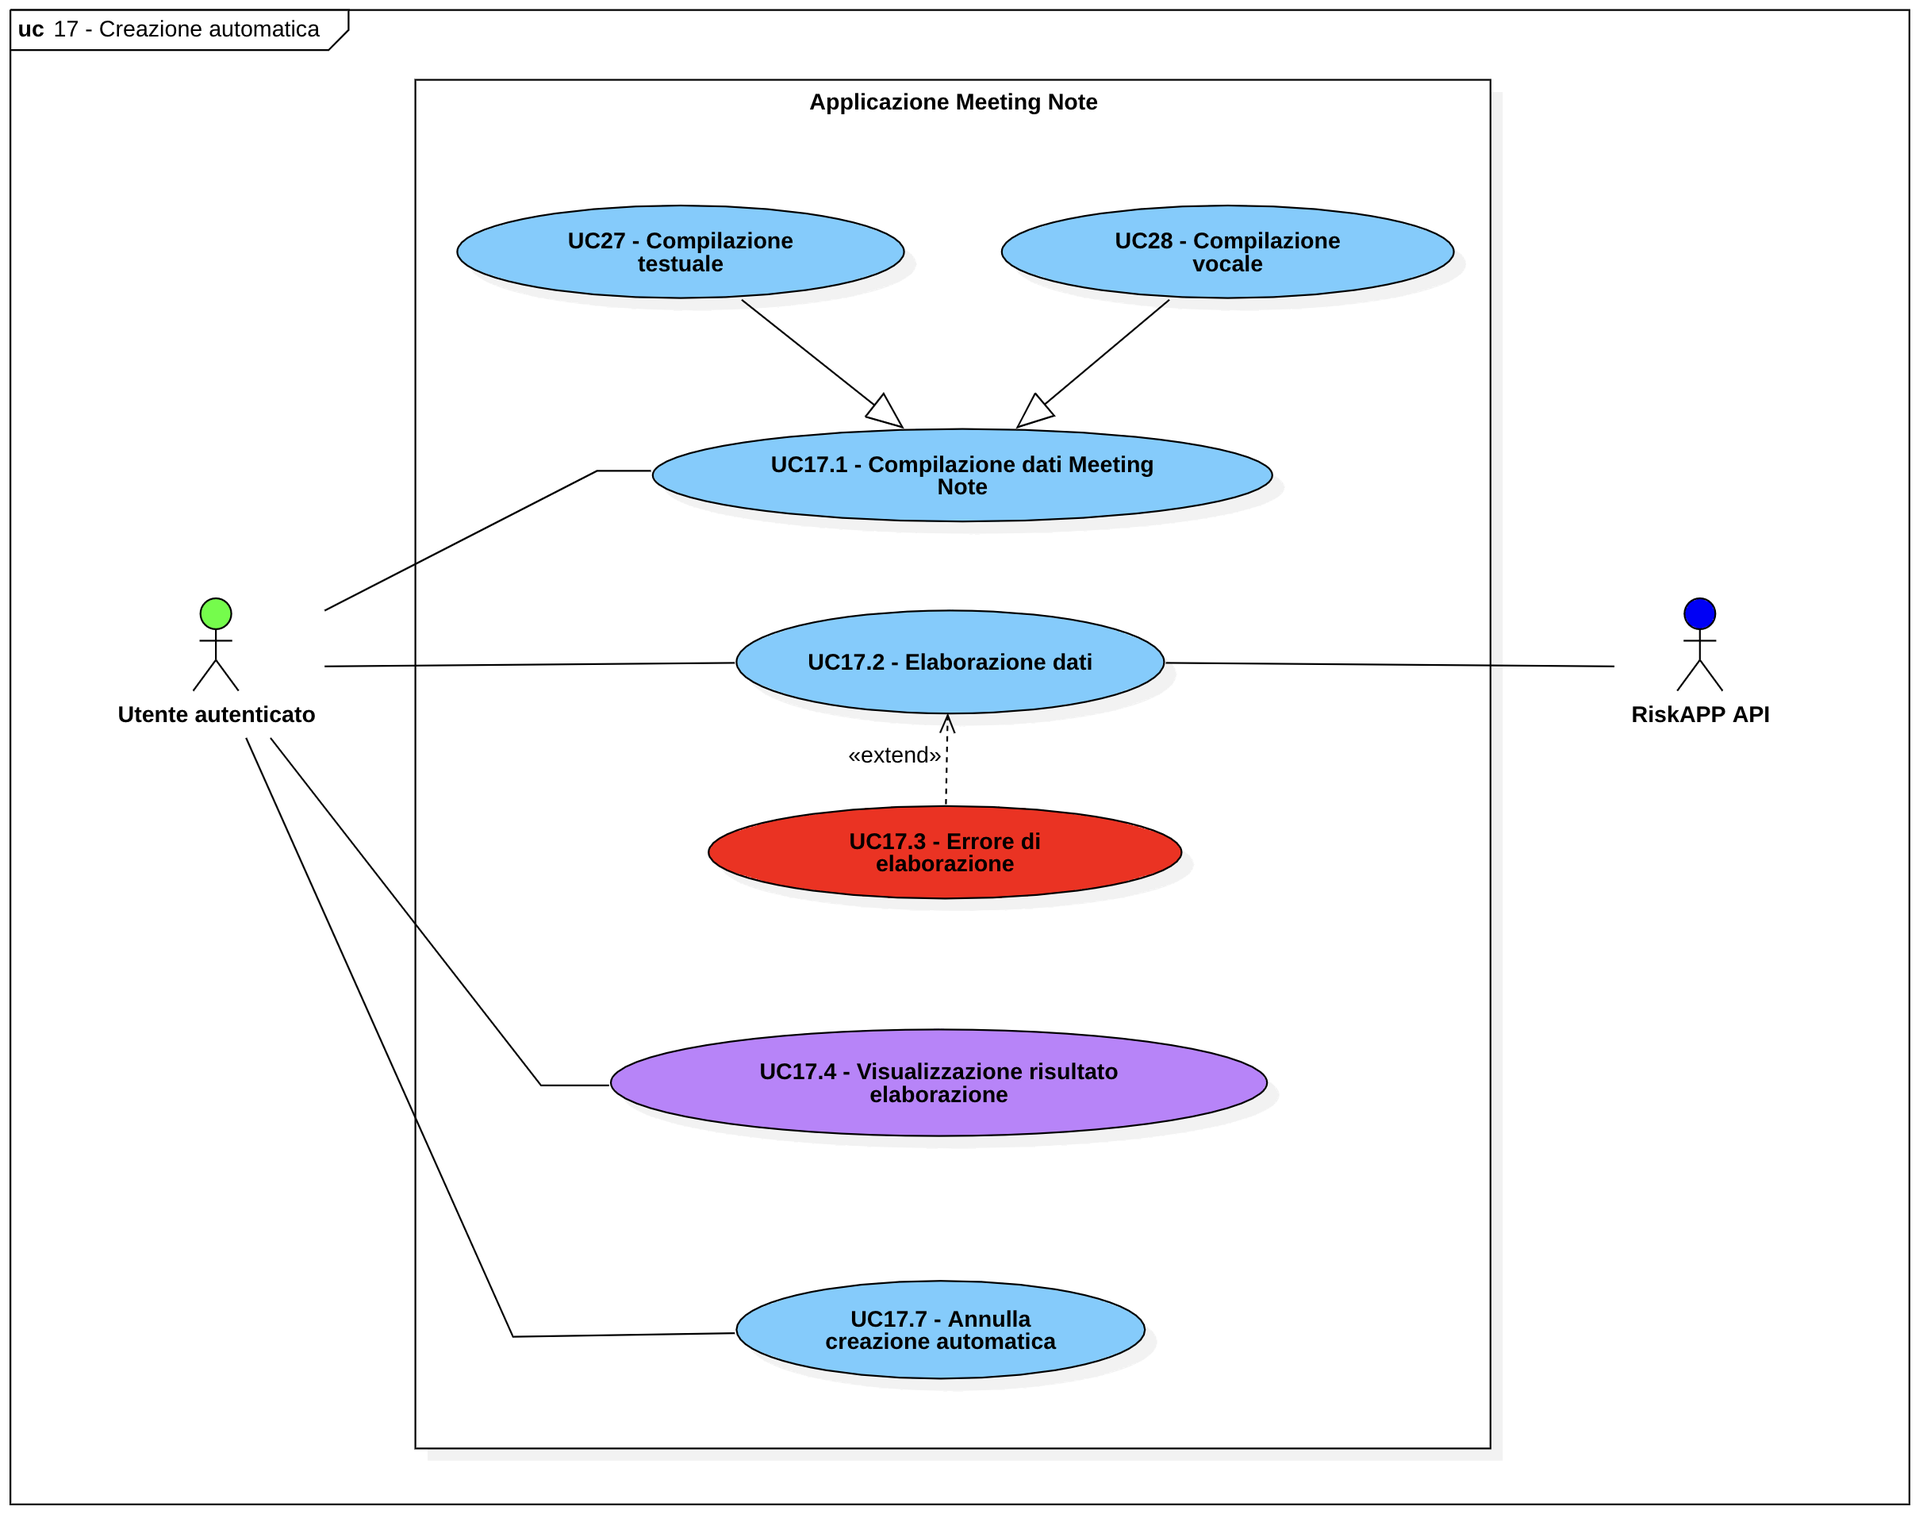
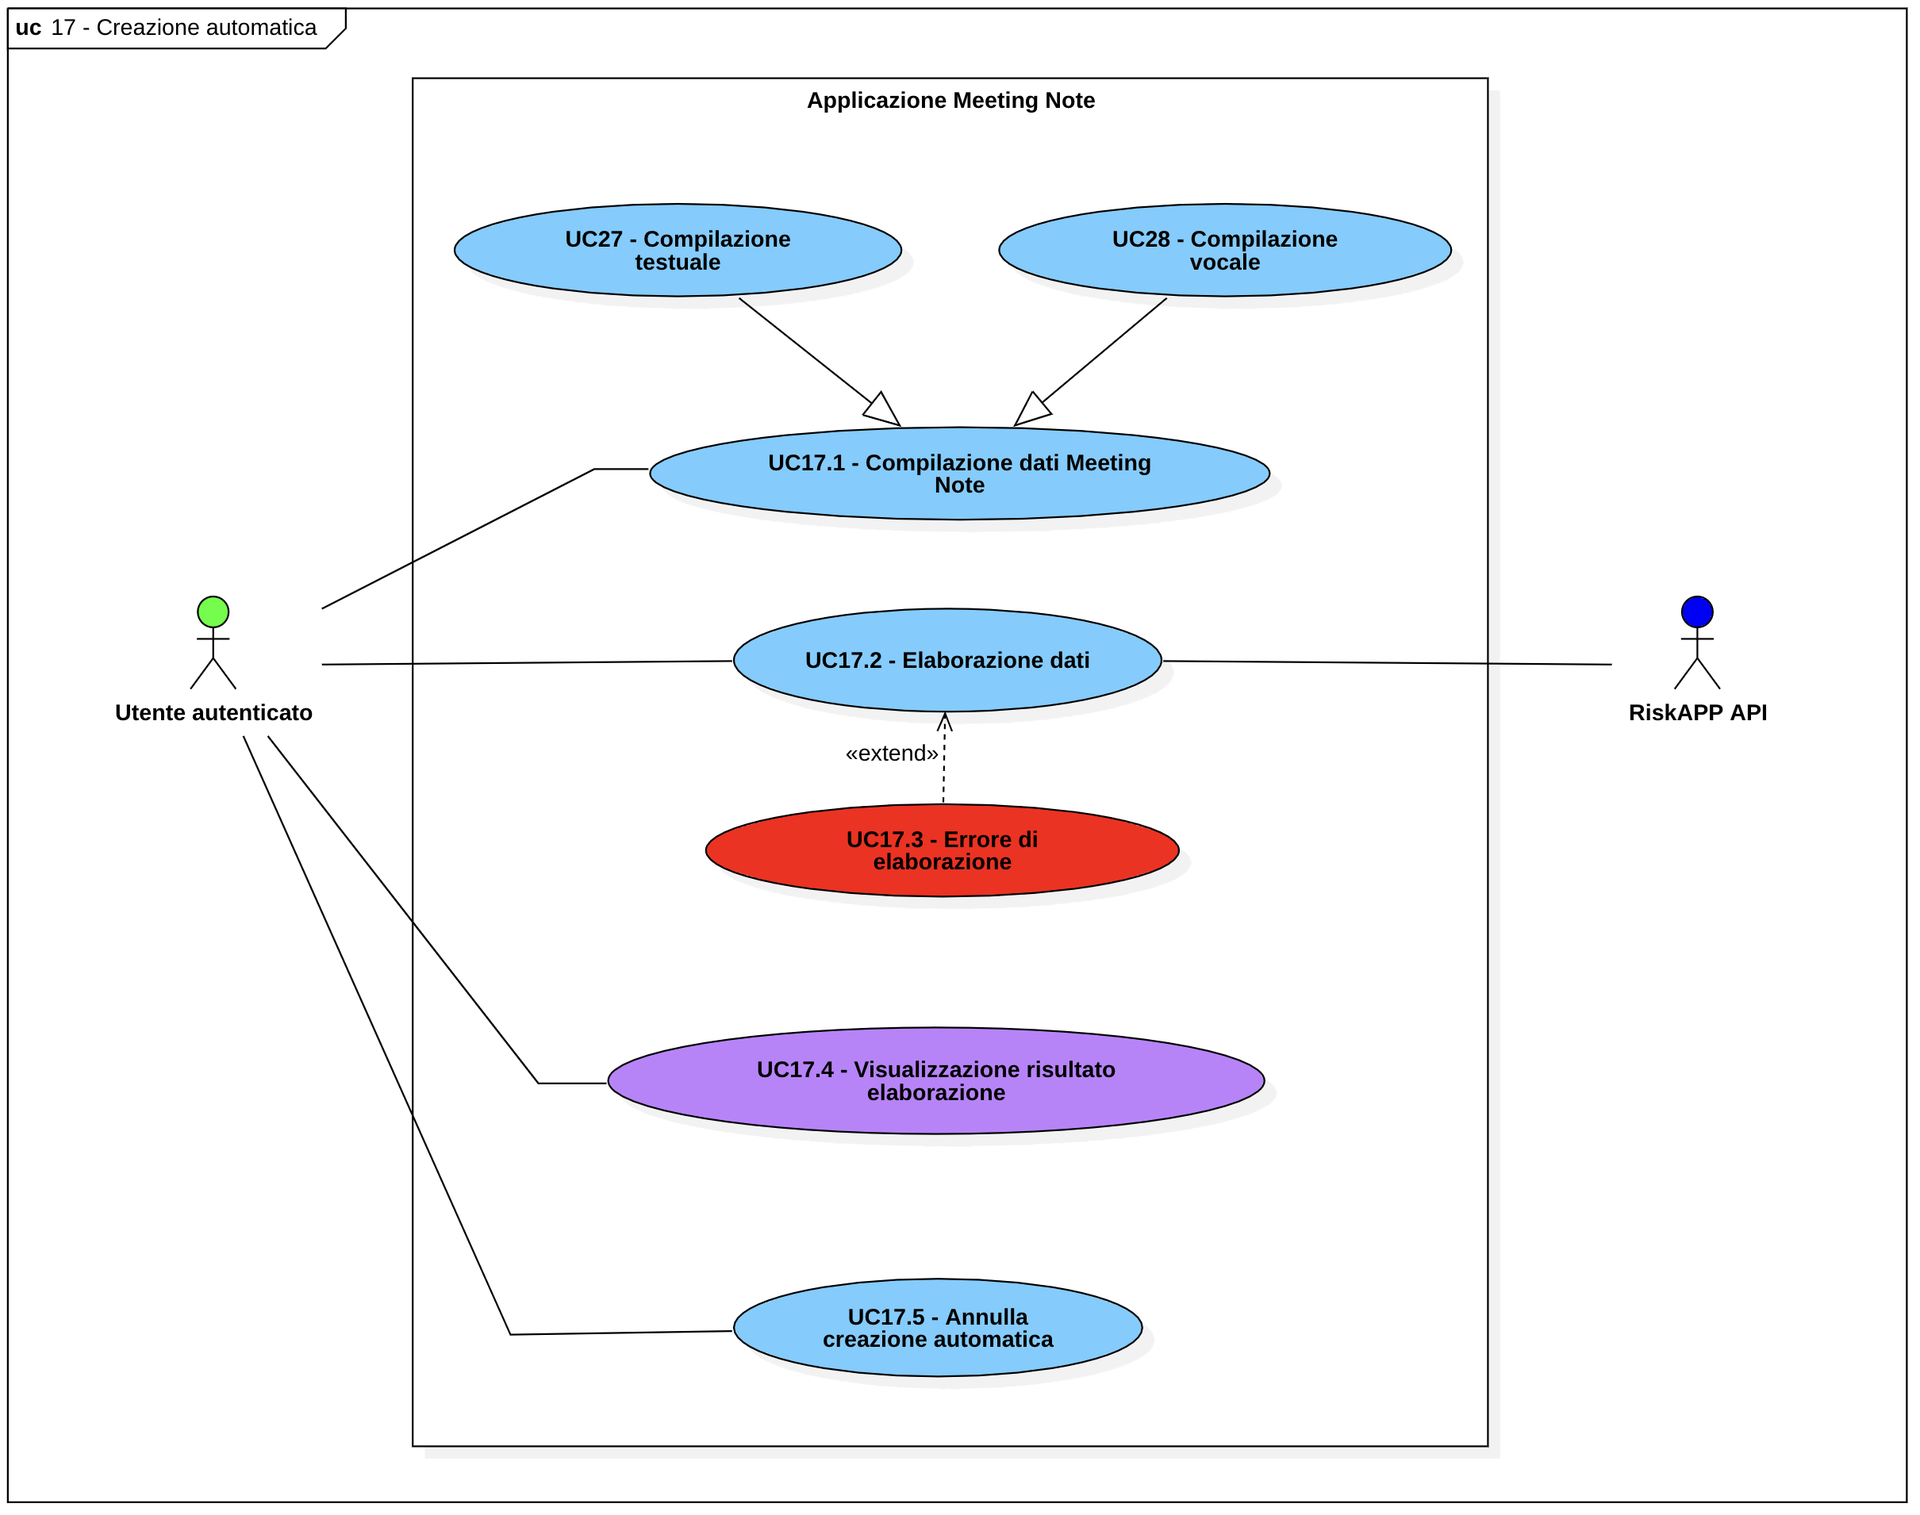
redazione use case

diff --git a/chapters/concept.tex b/chapters/concept.tex
@@ -104,8 +104,8 @@ In questa sezione vengono definiti gli attori che interagiscono con il sistema.
 \begin{usecase}{05.1}{Visualizzazione cliente delle Meeting Note}
     \usecasemainactors{Utente autenticato}
     \usecasepre{L'utente visualizza la lista delle \gls{meetingnote}\glsoccur}
-    \usecasedesc{Vengono visualizzati gli identificativi dei clienti associati alle \gls{meetingnote}\glsoccur.}
-    \usecasepost{L'utente visualizza i clienti associati alle \gls{meetingnote}\glsoccur}
+    \usecasedesc{Vengono visualizzati gli identificativi dei \glspl{cliente}\glsoccur associati alle \gls{meetingnote}\glsoccur.}
+    \usecasepost{L'utente visualizza i \glspl{cliente}\glsoccur associati alle \gls{meetingnote}\glsoccur}
 \end{usecase}
 
 \begin{usecase}{05.2}{Visualizzazione data della Meeting Note}
@@ -156,9 +156,9 @@ In questa sezione vengono definiti gli attori che interagiscono con il sistema.
 \begin{usecase}{07.1}{Ricerca per identificativo del cliente}
     \usecasemainactors{Utente autenticato}
     \usecasesecondaryactors{\emph{RiskAPP API}}
-    \usecasepre{L'utente ha selezionato la categoria del cliente}
-    \usecasedesc{L'utente effettua una ricerca per identificativo del cliente all'interno della lista delle \gls{meetingnote}\glsoccur.}
-    \usecasepost{L'utente visualizza la lista delle \gls{meetingnote}\glsoccur filtrata per identificativo del cliente}
+    \usecasepre{L'utente ha selezionato la categoria del \gls{cliente}\glsoccur}
+    \usecasedesc{L'utente effettua una ricerca per identificativo del \gls{cliente}\glsoccur all'interno della lista delle \gls{meetingnote}\glsoccur.}
+    \usecasepost{L'utente visualizza la lista delle \gls{meetingnote}\glsoccur filtrata per identificativo del \gls{cliente}\glsoccur}
     \usecasealt{Se la ricerca fallisce, si verifica \hyperref[UC07.6]{UC07.6}}
     \label{UC07.1}
 \end{usecase}
@@ -166,8 +166,8 @@ In questa sezione vengono definiti gli attori che interagiscono con il sistema.
 \begin{usecase}{07.2}{Selezione della categoria del cliente}
     \usecasemainactors{Utente autenticato}
     \usecasepre{L'utente visualizza la lista delle \gls{meetingnote}\glsoccur a lui associate}
-    \usecasedesc{L'utente seleziona la categoria del cliente per effettuare la ricerca per identificativo all'interno della lista delle \gls{meetingnote}\glsoccur.}
-    \usecasepost{L'utente ha selezionato la categoria del cliente}
+    \usecasedesc{L'utente seleziona la categoria del \gls{cliente}\glsoccur per effettuare la ricerca per identificativo all'interno della lista delle \gls{meetingnote}\glsoccur.}
+    \usecasepost{L'utente ha selezionato la categoria del \gls{cliente}\glsoccur}
     \label{UC07.2}
 \end{usecase}
 
@@ -345,7 +345,7 @@ In questa sezione vengono definiti gli attori che interagiscono con il sistema.
     \usecasedesc{L'utente vuole ordinare la lista delle \gls{meetingnote}\glsoccur dalla più recente.}
     \usecasepost{L'utente visualizza la lista delle \gls{meetingnote}\glsoccur ordinata dalla più recente}
     \usecasealt{Se l'ordinamento fallisce, si verifica \hyperref[UC13]{UC13}}
-    \label{UC11}
+    \label{UC12}
 \end{usecase}
 
 \begin{usecase}{13}{Errore nell'ordinamento}
@@ -381,8 +381,8 @@ In questa sezione vengono definiti gli attori che interagiscono con il sistema.
 \begin{usecase}{14.1}{Visualizzazione cliente Meeting Note}
     \usecasemainactors{Utente autenticato}
     \usecasepre{L'utente visualizza i dettagli di una singola \gls{meetingnote}\glsoccur}
-    \usecasedesc{L'utente vuole visualizzare il cliente di una \gls{meetingnote}\glsoccur.}
-    \usecasepost{L'utente visualizza il cliente di una \gls{meetingnote}\glsoccur}
+    \usecasedesc{L'utente vuole visualizzare il \gls{cliente}\glsoccur di una \gls{meetingnote}\glsoccur.}
+    \usecasepost{L'utente visualizza il \gls{cliente}\glsoccur di una \gls{meetingnote}\glsoccur}
     \label{UC14.1}
 \end{usecase}
 
@@ -439,6 +439,7 @@ In questa sezione vengono definiti gli attori che interagiscono con il sistema.
     \usecasepre{L'utente visualizza i dettagli di una singola \gls{meetingnote}\glsoccur}
     \usecasedesc{L'utente vuole modificare la \gls{meetingnote}\glsoccur selezionata.}
     \usecasepost{L'utente ha modificato la \gls{meetingnote}\glsoccur selezionata}
+    \label{UC14.7}
 \end{usecase}
 
 \newpage
@@ -471,6 +472,241 @@ In questa sezione vengono definiti gli attori che interagiscono con il sistema.
     \usecasedesc{L'utente vuole creare automaticamente una nuova \gls{meetingnote}\glsoccur.}
     \usecasepost{L'utente ha creato automaticamente una nuova \gls{meetingnote}\glsoccur}
     \label{UC17}
+\end{usecase}
+
+\newpage
+
+\begin{figure}[!h] 
+    \centering 
+    \includegraphics[width=1.0\columnwidth]{usecase/9-uc} 
+    \caption{Use Case - Creazione automatica}
+\end{figure}
+
+\begin{usecase}{17.1}{Compilazione dati Meeting Note}
+    \usecasemainactors{Utente autenticato}
+    \usecasepre{L'utente vuole creare automaticamente una \gls{meetingnote}\glsoccur}
+    \usecasedesc{L'utente compila i dati necessari per la creazione automatica di una \gls{meetingnote}\glsoccur.}
+    \usecasepost{L'utente ha compilato i dati necessari per la creazione automatica di una \gls{meetingnote}\glsoccur}
+\end{usecase}
+
+\begin{usecase}{17.2}{Elaborazione dati}
+    \usecasemainactors{Utente autenticato}
+    \usecasesecondaryactors{\emph{RiskAPP API}}
+    \usecasepre{L'utente ha compilato i dati necessari per la creazione automatica di una \gls{meetingnote}\glsoccur}
+    \usecasedesc{I dati vengono elaborati da una algoritmo di Intelligenza Artificiale [TERMINA DA AGGIUNGERE AL GLOSSARIO] per estrapolare i dati (cliente, data e contenuto) per la creazione di una \gls{meetingnote}\glsoccur.}
+    \usecasepost{I dati (cliente, data e contenuto) per la creazione di una \gls{meetingnote}\glsoccur sono stati estrapolati}
+    \usecasealt{Se l'elaborazione fallisce, si verifica \hyperref[UC17.3]{UC17.3}}
+    \label{UC17.2}
+\end{usecase}
+
+\begin{usecase}{17.3}{Errore elaborazione dati}
+    \usecasemainactors{Utente autenticato}
+    \usecasesecondaryactors{\emph{RiskAPP API}}
+    \usecasepre{L'utente ha compilato i dati necessari per la creazione automatica di una \gls{meetingnote}\glsoccur}
+    \usecasedesc{L'elaborazione dei dati per la creazione di una \gls{meetingnote}\glsoccur fallisce e l'utente viene informato dell'errore; le motivazioni possono essere le seguenti:
+        \begin{itemize}
+            \item i dati inseriti non sono sufficienti per l'elaborazione;
+            \item l'algoritmo non è stato in grado di estrapolare i dati;
+            \item il sistema non è raggiungibile;
+            \item token di autenticazione scaduto;
+            \item connessione ad internet assente.
+        \end{itemize}}
+    \usecasepost{I dati per la creazione di una \gls{meetingnote}\glsoccur non sono stati estrapolati}
+    \label{UC17.3}
+\end{usecase}
+
+\begin{usecase}{17.4}{Visualizzazione risultato elaborazione}
+    \usecasemainactors{Utente autenticato}
+    \usecasepre{L'algoritmo ha estrapolato i dati per la creazione di una \gls{meetingnote}\glsoccur}
+    \usecasedesc{Vengogno visualizzati i dati estrapolati dall'algoritmo per la creazione di una \gls{meetingnote}\glsoccur.}
+    \usecasepost{L'utente visualizza i dati estrapolati dall'algoritmo per la creazione di una \gls{meetingnote}\glsoccur per accertarsi della loro correttezza}
+    \label{UC17.4}
+\end{usecase}
+
+\begin{usecase}{17.5}{Annulla creazione automatica}
+    \usecasemainactors{Utente autenticato}
+    \usecasepre{L'utente vuole creare automaticamente una \gls{meetingnote}\glsoccur}
+    \usecasedesc{L'utente annulla la creazione automatica di una \gls{meetingnote}\glsoccur.}
+    \usecasepost{L'utente ha annullato la creazione automatica di una \gls{meetingnote}\glsoccur}
+    \label{UC17.5}
+\end{usecase}
+
+\newpage
+
+\begin{figure}[!h] 
+    \centering 
+    \includegraphics[width=1.0\columnwidth]{usecase/10-uc} 
+    \caption{Use Case - Visualizzazione risultato elaborazione}
+\end{figure}
+
+\newpage
+
+\begin{figure}[!h] 
+    \centering 
+    \includegraphics[width=1.0\columnwidth]{usecase/8-uc} 
+    \caption{Use Case - Creazione manuale (\hyperref[UC16]{UC16}) e Modifica (\hyperref[UC14.7]{UC14.7}) di una Meeting Note}
+\end{figure}
+
+SCRIVERE LA SPIEGAZIONE DELLO SVILUPPO DEGLI USE CASE \hyperref[UC16]{UC16} e \hyperref[UC14.7]{UC14.7}
+
+\begin{usecase}{18}{Selezione del cliente}
+    \usecasemainactors{Utente autenticato}
+    \usecasepre{L'utente vuole creare manualmente o modificare una \gls{meetingnote}\glsoccur}
+    \usecasedesc{L'utente deve selezionare un \gls{cliente}\glsoccur per la creazione o la modifica di una \gls{meetingnote}\glsoccur.}
+    \usecasepost{L'utente ha selezionato un \gls{cliente}\glsoccur}
+\end{usecase}
+
+\begin{usecase}{19}{Visualizzazione lista clienti}
+    \usecasemainactors{Utente autenticato}
+    \usecasesecondaryactors{\emph{RiskAPP API}}
+    \usecasepre{L'utente ha selezionato la categoria del \gls{cliente}\glsoccur}
+    \usecasedesc{Viene visualizzata la lista di tutti i \glspl{cliente}\glsoccur della categoria selezionata.}
+    \usecasepost{L'utente visualizza la lista dei \glspl{cliente}\glsoccur filtrata per categoria}
+    \usecasealt{Se la visualizzazione fallisce, si verifica \hyperref[UC20]{UC20}}
+    \label{UC19}
+\end{usecase}
+
+\begin{usecase}{20}{Errore visualizzazione lista clienti}
+    \usecasemainactors{Utente autenticato}
+    \usecasesecondaryactors{\emph{RiskAPP API}}
+    \usecasepre{L'utente ha selezionato la categoria del \gls{cliente}\glsoccur}
+    \usecasedesc{La visualizzazione della lista dei \glspl{cliente}\glsoccur fallisce e l'utente viene informato dell'errore; le motivazioni possono essere le seguenti:
+        \begin{itemize}
+            \item la lista è vuota;
+            \item il sistema non è raggiungibile;
+            \item token di autenticazione scaduto;
+            \item connessione ad internet assente.
+        \end{itemize}}
+    \usecasepost{L'utente non visualizza la lista dei \glspl{cliente}\glsoccur filtrata per categoria}
+    \label{UC20}
+\end{usecase}
+
+\begin{usecase}{21}{Ricerca cliente per identificativo}
+    \usecasemainactors{Utente autenticato}
+    \usecasesecondaryactors{\emph{RiskAPP API}}
+    \usecasepre{L'utente ha selezionato la categoria del \gls{cliente}\glsoccur}
+    \usecasedesc{L'utente effettua una ricerca per identificativo del \gls{cliente}\glsoccur all'interno della lista dei \glspl{cliente}\glsoccur.}
+    \usecasepost{L'utente visualizza la lista dei \glspl{cliente}\glsoccur filtrata per identificativo del \gls{cliente}\glsoccur}
+    \usecasealt{Se la ricerca fallisce, si verifica \hyperref[UC22]{UC22}}
+    \label{UC21}
+\end{usecase}
+
+\begin{usecase}{22}{Errore ricerca dell'identificativo}
+    \usecasemainactors{Utente autenticato}
+    \usecasesecondaryactors{\emph{RiskAPP API}}
+    \usecasepre{L'utente ha effettuato una ricerca all'interno della lista dei \glspl{cliente}\glsoccur}
+    \usecasedesc{La ricerca dell'identificativo del \gls{cliente}\glsoccur fallisce e l'utente viene informato dell'errore; le motivazioni possono essere le seguenti:
+        \begin{itemize}
+            \item la lista risultante è vuota;
+            \item il sistema non è raggiungibile;
+            \item token di autenticazione scaduto;
+            \item connessione ad internet assente.
+        \end{itemize}}
+    \usecasepost{L'utente non visualizza la lista dei \glspl{cliente}\glsoccur filtrata per identificativo del \gls{cliente}\glsoccur}
+    \label{UC22}
+\end{usecase}
+
+\begin{usecase}{23}{Selezione della categoria del cliente}
+    \usecasemainactors{Utente autenticato}
+    \usecasepre{L'utente deve selezionare un \gls{cliente}\glsoccur}
+    \usecasedesc{L'utente seleziona la categoria del \gls{cliente}\glsoccur per filtrare la lista dei \glspl{cliente}\glsoccur e/o la ricerca dell'identificativo.}
+    \usecasepost{L'utente ha selezionato la categoria del \gls{cliente}\glsoccur}
+    \label{UC23}
+\end{usecase}
+
+\begin{usecase}{24}{Selezione della data}
+    \usecasemainactors{Utente autenticato}
+    \usecasepre{L'utente vuole creare manualmente o modificare una \gls{meetingnote}\glsoccur}
+    \usecasedesc{L'utente deve selezionare una data per la creazione o la modifica di una \gls{meetingnote}\glsoccur.}
+    \usecasepost{L'utente ha selezionato una data}
+    \label{UC24}
+\end{usecase}
+
+\begin{usecase}{25}{Visualizzazione riepilogo}
+    \usecasemainactors{Utente autenticato}
+    \usecasepre{L'utente ha selezionato un \gls{cliente}\glsoccur e una data}
+    \usecasedesc{Viene visualizzato il riepilogo dei dati selezionati.}
+    \usecasepost{L'utente visualizza il riepilogo dei dati selezionati}
+    \label{UC25}
+\end{usecase}
+
+\newpage
+
+\begin{figure}[!h] 
+    \centering 
+    \includegraphics[width=1.0\columnwidth]{usecase/11-uc} 
+    \caption{Use Case - Visualizzazione riepilogo}
+\end{figure}
+
+\begin{usecase}{25.1}{Visualizzazione identificativo cliente}
+    \usecasemainactors{Utente autenticato}
+    \usecasepre{L'utente visualizza il riepilogo}
+    \usecasedesc{Viene visualizzato l'identificativo del \gls{cliente}\glsoccur selezionato.}
+    \usecasepost{L'utente visualizza l'identificativo del \gls{cliente}\glsoccur selezionato}
+    \label{UC25.1}
+\end{usecase}
+
+\begin{usecase}{25.2}{Visualizzazione data}
+    \usecasemainactors{Utente autenticato}
+    \usecasepre{L'utente visualizza il riepilogo}
+    \usecasedesc{Viene visualizzata la data selezionata.}
+    \usecasepost{L'utente visualizza la data selezionata}
+    \label{UC25.2}
+\end{usecase}
+
+\begin{usecase}{26}{Compilazione contenuto Meeting Note}
+    \usecasemainactors{Utente autenticato}
+    \usecasepre{L'utente vuole creare manualmente o modificare una \gls{meetingnote}\glsoccur}
+    \usecasedesc{L'utente deve compilare il contenuto della \gls{meetingnote}\glsoccur.}
+    \usecasepost{L'utente ha compilato il contenuto della \gls{meetingnote}\glsoccur}
+\end{usecase}
+
+\begin{usecase}{27}{Compilazione testuale}
+    \usecasemainactors{Utente autenticato}
+    \usecasepre{L'utente deve compilare il contenuto della \gls{meetingnote}\glsoccur}
+    \usecasedesc{L'utente deve compilare il contenuto della \gls{meetingnote}\glsoccur con l'ausilio della tastiera.}
+    \usecasepost{L'utente ha compilato il contenuto della \gls{meetingnote}\glsoccur con l'ausilio della tastiera}
+    \label{UC27}
+\end{usecase}
+
+\begin{usecase}{28}{Compilazione vocale}
+    \usecasemainactors{Utente autenticato}
+    \usecasepre{L'utente deve compilare il contenuto della \gls{meetingnote}\glsoccur}
+    \usecasedesc{L'utente deve compilare il contenuto della \gls{meetingnote}\glsoccur attraverso la dettatura vocale.}
+    \usecasepost{L'utente ha compilato il contenuto della \gls{meetingnote}\glsoccur attraverso la dettatura vocale}
+    \label{UC28}
+\end{usecase}
+
+\begin{usecase}{29}{Annulla operazione di Creazione-Modifica di una Meeting Note}
+    \usecasemainactors{Utente autenticato}
+    \usecasepre{L'utente ha selezionato: \gls{cliente}\glsoccur, data e compilato il contenuto della \gls{meetingnote}\glsoccur}
+    \usecasedesc{L'utente vuole annullare l'operazione di creazione o modifica di una \gls{meetingnote}\glsoccur.}
+    \usecasepost{L'utente ha annullato l'operazione di creazione o modifica di una \gls{meetingnote}\glsoccur}
+    \label{UC29}
+\end{usecase}
+
+\begin{usecase}{30}{Conferma operazione di Creazione-Modifica di una Meeting Note}
+    \usecasemainactors{Utente autenticato}
+    \usecasesecondaryactors{\emph{RiskAPP API}}
+    \usecasepre{L'utente ha selezionato: \gls{cliente}\glsoccur, data e compilato il contenuto della \gls{meetingnote}\glsoccur}
+    \usecasedesc{L'utente vuole confermare l'operazione di creazione o modifica di una \gls{meetingnote}\glsoccur.}
+    \usecasepost{L'utente ha confermato l'operazione di creazione o modifica di una \gls{meetingnote}\glsoccur}
+    \usecasealt{Se la conferma fallisce, si verifica \hyperref[UC31]{UC31}}
+    \label{UC30}
+\end{usecase}
+
+\begin{usecase}{31}{Errore nell'operazione di conferma}
+    \usecasemainactors{Utente autenticato}
+    \usecasesecondaryactors{\emph{RiskAPP API}}
+    \usecasepre{L'utente ha confermato l'operazione di creazione o modifica di una \gls{meetingnote}\glsoccur}
+    \usecasedesc{La conferma dell'operazione di creazione o modifica della \gls{meetingnote}\glsoccur fallisce e l'utente viene informato dell'errore; le motivazioni possono essere le seguenti:
+        \begin{itemize}
+            \item il sistema non è raggiungibile;
+            \item token di autenticazione scaduto;
+            \item connessione ad internet assente.
+        \end{itemize}}
+    \usecasepost{La conferm dell'operazione di creazione o modifica di una \gls{meetingnote}\glsoccur è fallita}
+    \label{UC31}
 \end{usecase}
 
 \section{Tracciamento dei requisiti}
